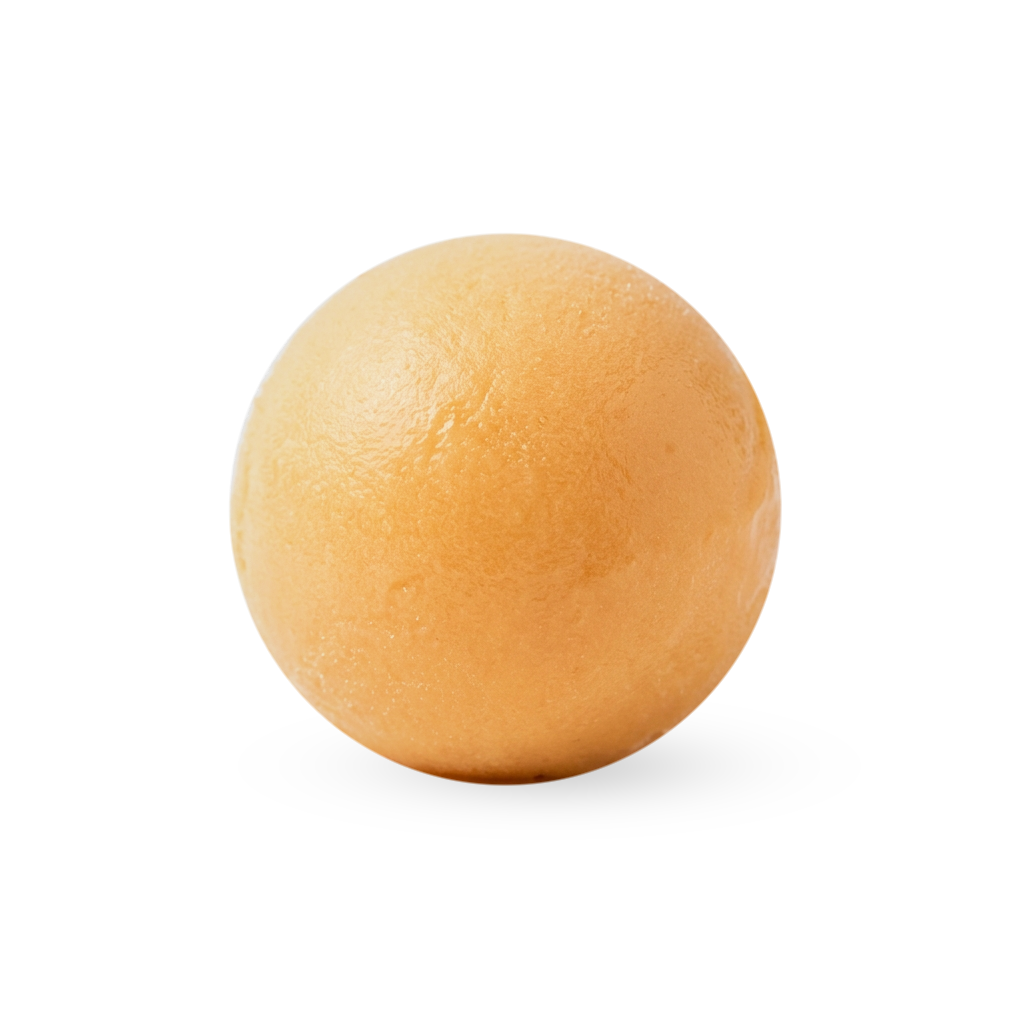
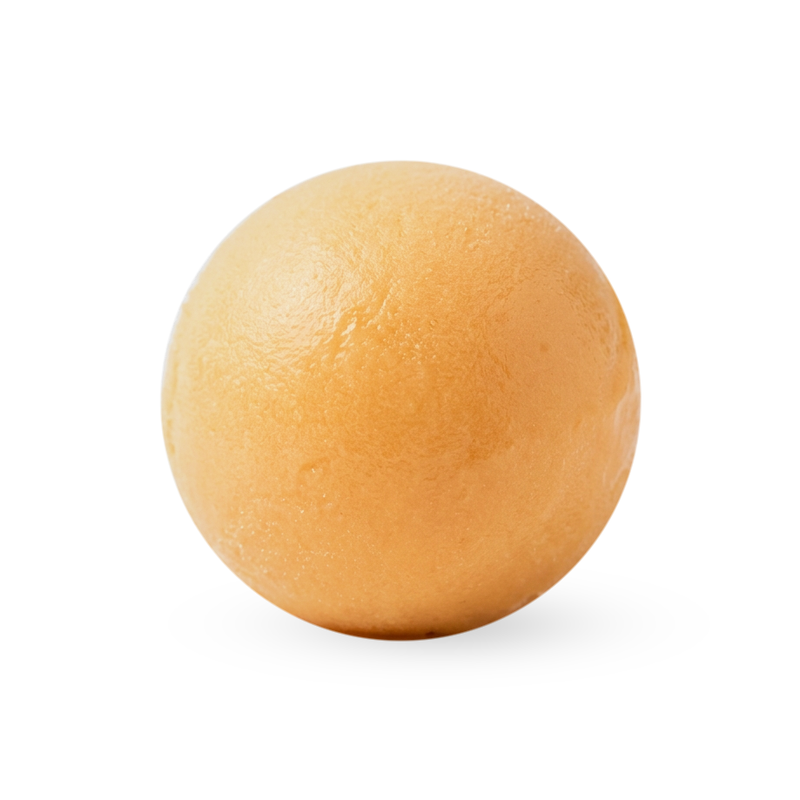
Boules centrées et à la même taille
- Les 32 boules recadrées dans public/images/boules/ : centre exact du cadre, même diamètre (30 % de la largeur), 800 px
- Les 11 photos non retouchées y ont leur version recadrée, fond blanchi pour éviter tout raccord
- Coefficients scale par parfum retirés (accueil et Nos glaces), ceux des créations conservés

diff --git a/app/nos-glaces/page.tsx b/app/nos-glaces/page.tsx
@@ -26,7 +26,6 @@ const flavors = [
     // Crèmes glacées
     {
         id: 1,
-        scale: 0.7,
         name: 'Vanille',
         description: 'Onctueuse aux gousses de vanille d\'Indonésie',
         category: 'glaces',
@@ -36,20 +35,18 @@ const flavors = [
     },
     {
         id: 2,
-        scale: 0.7,
         name: 'Chocolat',
         description: 'Grand cru de cacao, saveur intense',
         category: 'glaces',
-        image: '/images/chocolat.png',
+        image: '/images/boules/chocolat.png',
         price: '3,00€ la boule',
     },
     {
         id: 3,
-        scale: 1.15,
         name: 'Pistache',
         description: 'Pistache torréfiée, goût authentique',
         category: 'glaces',
-        image: '/images/pistachio_scoop.png',
+        image: '/images/boules/pistachio.png',
         price: '3,00€ la boule',
     },
     {
@@ -57,7 +54,7 @@ const flavors = [
         name: 'Noisette',
         description: 'Noisettes torréfiées',
         category: 'glaces',
-        image: '/images/hazelnut_scoop.png',
+        image: '/images/boules/hazelnut.png',
         price: '3,00€ la boule',
     },
     {
@@ -114,7 +111,7 @@ const flavors = [
         name: 'Rhum raisins',
         description: 'Raisins macérés au rhum vieux des Caraïbes',
         category: 'glaces',
-        image: '/images/rum_raisin_scoop.png',
+        image: '/images/boules/rum_raisin.png',
         price: '3,00€ la boule',
     },
     {
@@ -127,16 +124,14 @@ const flavors = [
     },
     {
         id: 14,
-        scale: 0.6,
         name: 'Miel',
         description: 'Douceur locale issue des ruches de la miellerie Chalet',
         category: 'glaces',
-        image: '/images/honey_scoop.png',
+        image: '/images/boules/honey.png',
         price: '3,00€ la boule',
     },
     {
         id: 15,
-        scale: 0.8,
         name: 'Menthe chocolat',
         description: 'Alliance fraîche de feuilles de menthe et éclats de chocolat',
         category: 'glaces',
@@ -147,11 +142,10 @@ const flavors = [
     // Sorbets
     {
         id: 16,
-        scale: 0.6,
         name: 'Framboise',
         description: 'Gourmand et acidulé',
         category: 'sorbets',
-        image: '/images/framboise.png',
+        image: '/images/boules/framboise.png',
         price: '3,00€ la boule',
     },
     {
@@ -167,12 +161,11 @@ const flavors = [
         name: 'Cassis',
         description: 'Intensité des baies noires',
         category: 'sorbets',
-        image: '/images/blackcurrant_scoop.png',
+        image: '/images/boules/blackcurrant.png',
         price: '3,00€ la boule',
     },
     {
         id: 19,
-        scale: 0.65,
         name: 'Myrtille',
         description: 'Un parfum fruité et rafraîchissant',
         category: 'sorbets',
@@ -189,16 +182,14 @@ const flavors = [
     },
     {
         id: 21,
-        scale: 0.65,
         name: 'Poire',
         description: 'Finesse de la poire Williams, fraîche et douce',
         category: 'sorbets',
-        image: '/images/pear_scoop.png',
+        image: '/images/boules/pear.png',
         price: '3,00€ la boule',
     },
     {
         id: 22,
-        scale: 0.65,
         name: 'Citron',
         description: "Fraîcheur acidulée",
         category: 'sorbets',
@@ -226,12 +217,11 @@ const flavors = [
         name: 'Mangue',
         description: "L'onctuosité de la mangue",
         category: 'sorbets',
-        image: '/images/mango_scoop.png',
+        image: '/images/boules/mango.png',
         price: '3,00€ la boule',
     },
     {
         id: 26,
-        scale: 0.65,
         name: 'Passion',
         description: 'Explosion de saveurs',
         category: 'sorbets',
@@ -264,7 +254,6 @@ const flavors = [
     },
     {
         id: 30,
-        scale: 0.65,
         name: 'Thym',
         description: 'Une touche aromatique',
         category: 'glaces',
@@ -273,20 +262,18 @@ const flavors = [
     },
     {
         id: 32,
-        scale: 0.65,
         name: 'Citron Menthe',
         description: "Rafraîchissante",
         category: 'sorbets',
-        image: '/images/lemon_mint_scoop.png',
+        image: '/images/boules/lemon_mint.png',
         price: '3,00€ la boule',
     },
     {
         id: 33,
-        scale: 0.65,
         name: 'Abricot Thym',
         description: "Oser l'originalité",
         category: 'sorbets',
-        image: '/images/apricot_thyme_scoop.png',
+        image: '/images/boules/apricot_thyme.png',
         price: '3,00€ la boule',
     },
     {
@@ -390,7 +377,6 @@ export default function NosGlacesPage() {
                                         fill
                                         sizes="(max-width: 768px) 100vw, (max-width: 1024px) 50vw, 25vw"
                                         className={styles.flavorImg}
-                                        style={flavor.scale ? { scale: flavor.scale } : undefined}
                                     />
                                     {flavor.isSeasonal && (
                                         <span className={styles.flavorBadge}>Limitée</span>
@@ -441,7 +427,6 @@ export default function NosGlacesPage() {
                                         fill
                                         sizes="(max-width: 768px) 100vw, 50vw"
                                         className={styles.modalImg}
-                                        style={selectedFlavor.scale ? { scale: selectedFlavor.scale } : undefined}
                                     />
                                     
                                     {/* SVG Drawing Layer covering the entire image box! */}

diff --git a/app/page.tsx b/app/page.tsx
@@ -31,23 +31,20 @@ const featuredProducts = [
         category: 'Crème glacée',
         image: '/images/boules/vanille.png',
         isSeasonal: false,
-        scale: 0.7,
     },
     {
         id: 2,
         name: 'Chocolat',
         description: 'Grand cru de cacao, saveur intense',
         category: 'Crème glacée',
-        image: '/images/chocolat.png',
-        scale: 0.7,
+        image: '/images/boules/chocolat.png',
     },
     {
         id: 3,
         name: 'Pistache',
         description: 'Pistache torréfiée, goût authentique',
         category: 'Crème glacée',
-        image: '/images/pistachio_scoop.png',
-        scale: 1.15,
+        image: '/images/boules/pistachio.png',
     },
     {
         id: 9,
@@ -69,15 +66,13 @@ const featuredProducts = [
         description: 'Alliance fraîche de menthe et pépites de cacao',
         category: 'Crème glacée',
         image: '/images/boules/mint_choc.png',
-        scale: 0.8,
     },
     {
         id: 16,
         name: 'Framboise',
         description: 'Pureté du fruit, acidulé et éclatant',
         category: 'Sorbet Plein Fruit',
-        image: '/images/framboise.png',
-        scale: 0.6,
+        image: '/images/boules/framboise.png',
     },
     {
         id: 17,
@@ -92,7 +87,6 @@ const featuredProducts = [
         description: 'Éclat de fruits des bois au sommet des Alpes',
         category: 'Sorbet Plein Fruit',
         image: '/images/boules/blueberry.png',
-        scale: 0.65,
     },
     {
         id: 23,
@@ -106,7 +100,7 @@ const featuredProducts = [
         name: 'Mangue',
         description: 'Onctuosité de la mangue Alphonso mûre',
         category: 'Sorbet Plein Fruit',
-        image: '/images/mango_scoop.png',
+        image: '/images/boules/mango.png',
     },
     {
         id: 28,
@@ -343,7 +337,6 @@ export default function HomePage() {
                                                 fill
                                                 sizes="(max-width: 768px) 100vw, 33vw"
                                                 className={styles.productImg}
-                                                style={product.scale ? { scale: product.scale } : undefined}
                                             />
                                             {product.isSeasonal && (
                                                 <span className={styles.productBadge}>{t('product.seasonal')}</span>
